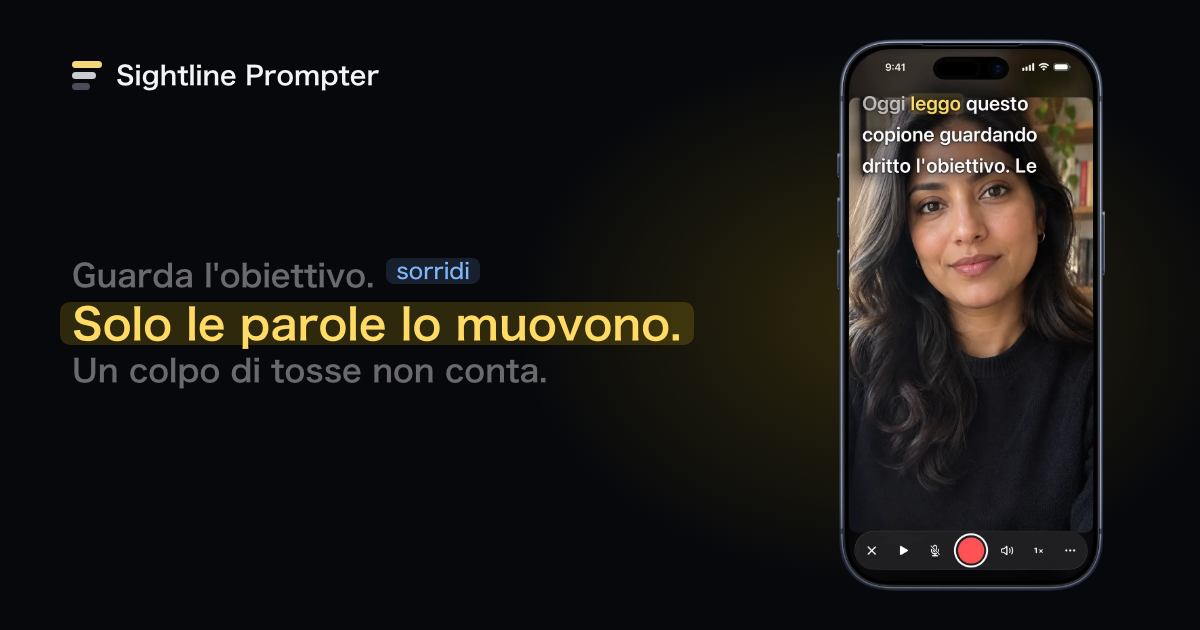
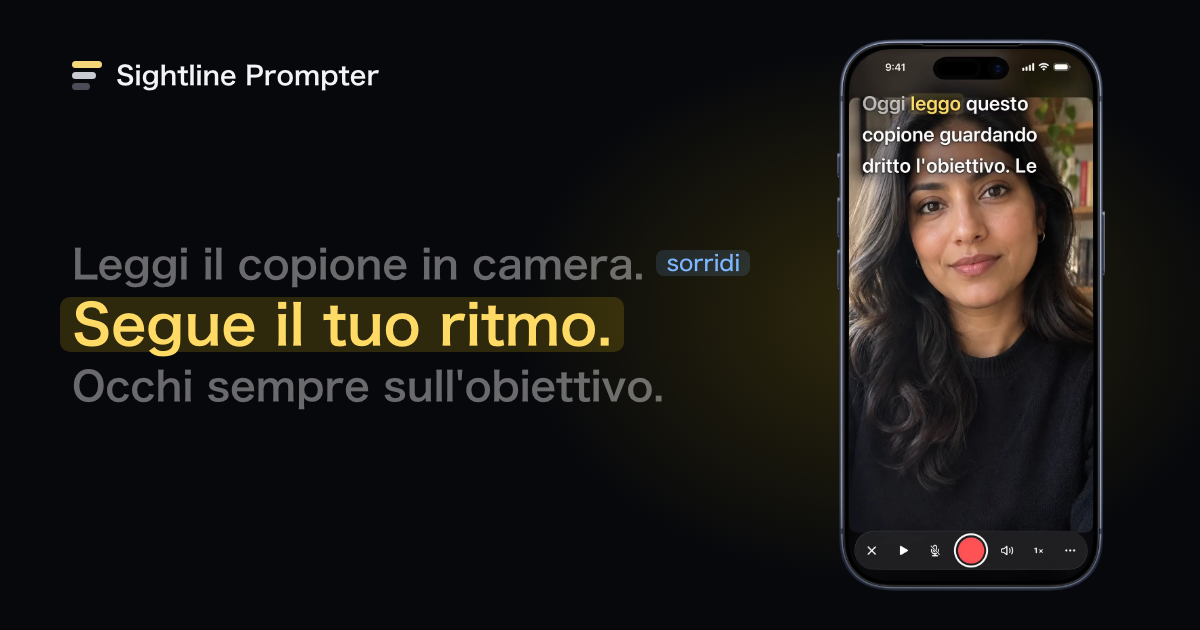
Hero: say what it is and lead with speaking at your own pace

Changed region(s): [[0.0308, 0.3921, 0.6475, 0.6635]]

diff --git a/docs/ja/index.html b/docs/ja/index.html
@@ -26,7 +26,7 @@
 <meta property="og:title" content="Sightline Prompter:声を聞いてくれるテレプロンプター">
 <meta property="og:description" content="iPhoneとMacで使える、声に合わせて進むテレプロンプターアプリ。話すと進み、間を取ると待ちます。咳をしても飛びません。無料で試せます。">
 <meta property="og:url" content="https://sightlineprompter.app/ja/">
-<meta property="og:image" content="https://sightlineprompter.app/assets/og/ja.png?v=399372bf">
+<meta property="og:image" content="https://sightlineprompter.app/assets/og/ja.png?v=78f57185">
 <meta property="og:image:width" content="1200">
 <meta property="og:image:height" content="630">
 <meta property="og:image:type" content="image/png">
@@ -45,7 +45,7 @@
 <meta name="twitter:card" content="summary_large_image">
 <meta name="twitter:title" content="Sightline Prompter:声を聞いてくれるテレプロンプター">
 <meta name="twitter:description" content="iPhoneとMacで使える、声に合わせて進むテレプロンプターアプリ。話すと進み、間を取ると待ちます。咳をしても飛びません。無料で試せます。">
-<meta name="twitter:image" content="https://sightlineprompter.app/assets/og/ja.png?v=399372bf">
+<meta name="twitter:image" content="https://sightlineprompter.app/assets/og/ja.png?v=78f57185">
 <meta name="twitter:image:alt" content="iPhoneとMacに表示されたSightline Prompter。カメラのすぐ下に原稿の文字があります">
 <link rel="icon" href="/favicon.ico" sizes="any">
 <link rel="apple-touch-icon" href="/apple-touch-icon.png">
@@ -101,12 +101,12 @@
 <section class="hero">
   <div class="wrap hero-grid">
     <div class="hero-copy">
-      <h1 class="reading" style="--w:13.0">
-        <span class="ln dim">レンズを見て。 <span class="cue" aria-hidden="true">笑顔</span></span>
-        <span class="ln" data-read>あなたの言葉だけで進む。</span>
-        <span class="ln dim">咳では飛びません。</span>
+      <h1 class="reading" style="--w:11.9">
+        <span class="ln dim">カメラの前で原稿を読む。 <span class="cue" aria-hidden="true">笑顔</span></span>
+        <span class="ln" data-read>あなたのペースで進む。</span>
+        <span class="ln dim">視線はレンズから離れない。</span>
       </h1>
-      <p class="sub">Sightline Prompterは、iPhoneとMacで使えるテレプロンプターアプリです。画面にある言葉だけを照合して声に合わせて進むので、咳やアドリブ、読み飛ばしでも原稿が飛びません。文字はカメラのすぐ下に表示されます。無料で試せます。</p>
+      <p class="sub">iPhoneとMacで使えるテレプロンプターです。声に合わせて一語ずつ進みます。速くても遅くても、途中で止まっても、原稿がついてくるので、見るのはメモではなく視聴者です。</p>
       <div class="actions">
         <a class="store lg" href="https://apps.apple.com/app/id6833947315?ct=site-hero"><img src="https://toolbox.marketingtools.apple.com/api/v2/badges/download-on-the-app-store/black/ja-jp" alt="App Storeからダウンロード" width="168" height="56"></a>
         <a class="link" href="#devices">しくみを見る</a>

diff --git a/docs/fr/index.html b/docs/fr/index.html
@@ -26,7 +26,7 @@
 <meta property="og:title" content="Sightline Prompter : le téléprompteur qui vous entend">
 <meta property="og:description" content="Une application de téléprompteur pour iPhone et Mac qui suit votre voix. Le texte avance quand vous parlez et attend quand vous faites une pause ou toussez. Essai gratuit.">
 <meta property="og:url" content="https://sightlineprompter.app/fr/">
-<meta property="og:image" content="https://sightlineprompter.app/assets/og/fr.png?v=d6f83c09">
+<meta property="og:image" content="https://sightlineprompter.app/assets/og/fr.png?v=1398ee3c">
 <meta property="og:image:width" content="1200">
 <meta property="og:image:height" content="630">
 <meta property="og:image:type" content="image/png">
@@ -45,7 +45,7 @@
 <meta name="twitter:card" content="summary_large_image">
 <meta name="twitter:title" content="Sightline Prompter : le téléprompteur qui vous entend">
 <meta name="twitter:description" content="Une application de téléprompteur pour iPhone et Mac qui suit votre voix. Le texte avance quand vous parlez et attend quand vous faites une pause ou toussez. Essai gratuit.">
-<meta name="twitter:image" content="https://sightlineprompter.app/assets/og/fr.png?v=d6f83c09">
+<meta name="twitter:image" content="https://sightlineprompter.app/assets/og/fr.png?v=1398ee3c">
 <meta name="twitter:image:alt" content="Sightline Prompter sur iPhone et Mac, avec le texte juste sous la caméra">
 <link rel="icon" href="/favicon.ico" sizes="any">
 <link rel="apple-touch-icon" href="/apple-touch-icon.png">
@@ -101,12 +101,12 @@
 <section class="hero">
   <div class="wrap hero-grid">
     <div class="hero-copy">
-      <h1 class="reading" style="--w:14.6">
-        <span class="ln dim">Regardez l&#x27;objectif. <span class="cue" aria-hidden="true">sourire</span></span>
-        <span class="ln" data-read>Seuls vos mots le guident.</span>
-        <span class="ln dim">Une toux ne change rien.</span>
+      <h1 class="reading" style="--w:14.2">
+        <span class="ln dim">Lisez votre texte face caméra. <span class="cue" aria-hidden="true">sourire</span></span>
+        <span class="ln" data-read>Il suit votre rythme.</span>
+        <span class="ln dim">Vos yeux restent sur l&#x27;objectif.</span>
       </h1>
-      <p class="sub">Sightline Prompter est une application de téléprompteur pour iPhone et Mac. Elle suit votre voix en ne comparant que les mots affichés à l&#x27;écran : une toux, une improvisation ou une ligne sautée ne la font pas décrocher. Le texte reste juste sous la caméra. Essai gratuit.</p>
+      <p class="sub">Un téléprompteur pour iPhone et Mac qui suit votre voix mot à mot. Parlez vite ou lentement, faites des pauses quand vous voulez : le texte suit, et vous regardez votre public, pas vos notes.</p>
       <div class="actions">
         <a class="store lg" href="https://apps.apple.com/app/id6833947315?ct=site-hero"><img src="https://toolbox.marketingtools.apple.com/api/v2/badges/download-on-the-app-store/black/fr-fr" alt="Télécharger dans l&#x27;App Store" width="168" height="56"></a>
         <a class="link" href="#devices">Voir comment ça marche</a>

diff --git a/docs/de/index.html b/docs/de/index.html
@@ -26,7 +26,7 @@
 <meta property="og:title" content="Sightline Prompter: der Teleprompter, der dir zuhört">
 <meta property="og:description" content="Eine Teleprompter-App für iPhone und Mac, die deiner Stimme folgt. Der Text läuft, wenn du sprichst, und wartet, wenn du pausierst oder hustest. Kostenlos testen.">
 <meta property="og:url" content="https://sightlineprompter.app/de/">
-<meta property="og:image" content="https://sightlineprompter.app/assets/og/de.png?v=80e2c7ca">
+<meta property="og:image" content="https://sightlineprompter.app/assets/og/de.png?v=d75588f2">
 <meta property="og:image:width" content="1200">
 <meta property="og:image:height" content="630">
 <meta property="og:image:type" content="image/png">
@@ -45,7 +45,7 @@
 <meta name="twitter:card" content="summary_large_image">
 <meta name="twitter:title" content="Sightline Prompter: der Teleprompter, der dir zuhört">
 <meta name="twitter:description" content="Eine Teleprompter-App für iPhone und Mac, die deiner Stimme folgt. Der Text läuft, wenn du sprichst, und wartet, wenn du pausierst oder hustest. Kostenlos testen.">
-<meta name="twitter:image" content="https://sightlineprompter.app/assets/og/de.png?v=80e2c7ca">
+<meta name="twitter:image" content="https://sightlineprompter.app/assets/og/de.png?v=d75588f2">
 <meta name="twitter:image:alt" content="Sightline Prompter auf iPhone und Mac, der Skripttext direkt unter der Kamera">
 <link rel="icon" href="/favicon.ico" sizes="any">
 <link rel="apple-touch-icon" href="/apple-touch-icon.png">
@@ -101,12 +101,12 @@
 <section class="hero">
   <div class="wrap hero-grid">
     <div class="hero-copy">
-      <h1 class="reading" style="--w:15.1">
-        <span class="ln dim">Schau in die Linse. <span class="cue" aria-hidden="true">lächeln</span></span>
-        <span class="ln" data-read>Nur deine Worte bewegen es.</span>
-        <span class="ln dim">Ein Husten stört es nicht.</span>
+      <h1 class="reading" style="--w:15.0">
+        <span class="ln dim">Lies deinen Text vor der Kamera. <span class="cue" aria-hidden="true">lächeln</span></span>
+        <span class="ln" data-read>Er folgt deinem Tempo.</span>
+        <span class="ln dim">Dein Blick bleibt im Objektiv.</span>
       </h1>
-      <p class="sub">Sightline Prompter ist eine Teleprompter-App für iPhone und Mac. Sie folgt deiner Stimme und gleicht nur die Wörter auf dem Bildschirm ab, daher bringen ein Husten, eine spontane Einlage oder eine übersprungene Zeile sie nicht durcheinander. Der Text bleibt direkt unter der Kamera. Kostenlos testen.</p>
+      <p class="sub">Ein Teleprompter für iPhone und Mac, der deiner Stimme Wort für Wort folgt. Sprich schnell oder langsam, mach Pausen, wann du willst. Der Text hält Schritt, und du schaust ins Publikum statt auf Notizen.</p>
       <div class="actions">
         <a class="store lg" href="https://apps.apple.com/app/id6833947315?ct=site-hero"><img src="https://toolbox.marketingtools.apple.com/api/v2/badges/download-on-the-app-store/black/de-de" alt="Laden im App Store" width="168" height="56"></a>
         <a class="link" href="#devices">So funktioniert&#x27;s</a>

diff --git a/docs/pt-br/index.html b/docs/pt-br/index.html
@@ -26,7 +26,7 @@
 <meta property="og:title" content="Sightline Prompter: o teleprompter que ouve você">
 <meta property="og:description" content="Um app de teleprompter para iPhone e Mac que acompanha sua voz. O texto avança quando você fala e espera quando você pausa ou tosse. Experimente grátis.">
 <meta property="og:url" content="https://sightlineprompter.app/pt-br/">
-<meta property="og:image" content="https://sightlineprompter.app/assets/og/pt-br.png?v=3e630354">
+<meta property="og:image" content="https://sightlineprompter.app/assets/og/pt-br.png?v=13dd6a25">
 <meta property="og:image:width" content="1200">
 <meta property="og:image:height" content="630">
 <meta property="og:image:type" content="image/png">
@@ -45,7 +45,7 @@
 <meta name="twitter:card" content="summary_large_image">
 <meta name="twitter:title" content="Sightline Prompter: o teleprompter que ouve você">
 <meta name="twitter:description" content="Um app de teleprompter para iPhone e Mac que acompanha sua voz. O texto avança quando você fala e espera quando você pausa ou tosse. Experimente grátis.">
-<meta name="twitter:image" content="https://sightlineprompter.app/assets/og/pt-br.png?v=3e630354">
+<meta name="twitter:image" content="https://sightlineprompter.app/assets/og/pt-br.png?v=13dd6a25">
 <meta name="twitter:image:alt" content="Sightline Prompter no iPhone e no Mac, com o texto logo abaixo da câmera">
 <link rel="icon" href="/favicon.ico" sizes="any">
 <link rel="apple-touch-icon" href="/apple-touch-icon.png">
@@ -101,12 +101,12 @@
 <section class="hero">
   <div class="wrap hero-grid">
     <div class="hero-copy">
-      <h1 class="reading" style="--w:15.7">
-        <span class="ln dim">Olhe para a câmera. <span class="cue" aria-hidden="true">sorria</span></span>
-        <span class="ln" data-read>Só as suas palavras o movem.</span>
-        <span class="ln dim">Uma tosse não o faz pular.</span>
+      <h1 class="reading" style="--w:14.9">
+        <span class="ln dim">Leia seu texto olhando a câmera. <span class="cue" aria-hidden="true">sorria</span></span>
+        <span class="ln" data-read>Ele segue o seu ritmo.</span>
+        <span class="ln dim">Seus olhos ficam na lente.</span>
       </h1>
-      <p class="sub">O Sightline Prompter é um app de teleprompter para iPhone e Mac. Ele acompanha sua voz comparando só as palavras que estão na tela, então uma tosse, um improviso ou uma linha pulada não o confundem. O texto fica logo abaixo da câmera. Experimente grátis.</p>
+      <p class="sub">Um teleprompter para iPhone e Mac que acompanha sua voz palavra por palavra. Fale rápido ou devagar, faça pausas quando quiser. O texto vai junto, e você olha para o público, não para as anotações.</p>
       <div class="actions">
         <a class="store lg" href="https://apps.apple.com/app/id6833947315?ct=site-hero"><img src="https://toolbox.marketingtools.apple.com/api/v2/badges/download-on-the-app-store/black/pt-br" alt="Baixar na App Store" width="168" height="56"></a>
         <a class="link" href="#devices">Veja como funciona</a>

diff --git a/docs/it/index.html b/docs/it/index.html
@@ -26,7 +26,7 @@
 <meta property="og:title" content="Sightline Prompter: il teleprompter che ti ascolta">
 <meta property="og:description" content="Un&#x27;app teleprompter per iPhone e Mac che segue la tua voce. Il testo avanza quando parli e aspetta quando fai una pausa o tossisci. Provala gratis.">
 <meta property="og:url" content="https://sightlineprompter.app/it/">
-<meta property="og:image" content="https://sightlineprompter.app/assets/og/it.png?v=624c0350">
+<meta property="og:image" content="https://sightlineprompter.app/assets/og/it.png?v=00576224">
 <meta property="og:image:width" content="1200">
 <meta property="og:image:height" content="630">
 <meta property="og:image:type" content="image/png">
@@ -45,7 +45,7 @@
 <meta name="twitter:card" content="summary_large_image">
 <meta name="twitter:title" content="Sightline Prompter: il teleprompter che ti ascolta">
 <meta name="twitter:description" content="Un&#x27;app teleprompter per iPhone e Mac che segue la tua voce. Il testo avanza quando parli e aspetta quando fai una pausa o tossisci. Provala gratis.">
-<meta name="twitter:image" content="https://sightlineprompter.app/assets/og/it.png?v=624c0350">
+<meta name="twitter:image" content="https://sightlineprompter.app/assets/og/it.png?v=00576224">
 <meta name="twitter:image:alt" content="Sightline Prompter su iPhone e Mac, con il testo appena sotto l&#x27;obiettivo">
 <link rel="icon" href="/favicon.ico" sizes="any">
 <link rel="apple-touch-icon" href="/apple-touch-icon.png">
@@ -101,12 +101,12 @@
 <section class="hero">
   <div class="wrap hero-grid">
     <div class="hero-copy">
-      <h1 class="reading" style="--w:14.6">
-        <span class="ln dim">Guarda l&#x27;obiettivo. <span class="cue" aria-hidden="true">sorridi</span></span>
-        <span class="ln" data-read>Solo le parole lo muovono.</span>
-        <span class="ln dim">Un colpo di tosse non conta.</span>
+      <h1 class="reading" style="--w:13.0">
+        <span class="ln dim">Leggi il copione in camera. <span class="cue" aria-hidden="true">sorridi</span></span>
+        <span class="ln" data-read>Segue il tuo ritmo.</span>
+        <span class="ln dim">Occhi sempre sull&#x27;obiettivo.</span>
       </h1>
-      <p class="sub">Sightline Prompter è un&#x27;app teleprompter per iPhone e Mac. Segue la tua voce confrontando solo le parole sullo schermo, quindi un colpo di tosse, un&#x27;improvvisazione o una riga saltata non la mandano fuori strada. Il testo resta proprio sotto la fotocamera. Provala gratis.</p>
+      <p class="sub">Un teleprompter per iPhone e Mac che segue la tua voce parola per parola. Parla veloce o piano, fai pause quando vuoi. Il testo ti tiene il passo e tu guardi il pubblico, non gli appunti.</p>
       <div class="actions">
         <a class="store lg" href="https://apps.apple.com/app/id6833947315?ct=site-hero"><img src="https://toolbox.marketingtools.apple.com/api/v2/badges/download-on-the-app-store/black/it-it" alt="Scarica su App Store" width="168" height="56"></a>
         <a class="link" href="#devices">Guarda come funziona</a>

diff --git a/docs/tr/index.html b/docs/tr/index.html
@@ -26,7 +26,7 @@
 <meta property="og:title" content="Sightline Prompter: seni dinleyen teleprompter">
 <meta property="og:description" content="iPhone ve Mac için sesini takip eden bir teleprompter uygulaması. Konuştukça metin ilerler, duraksayınca ya da öksürünce bekler. Ücretsiz dene.">
 <meta property="og:url" content="https://sightlineprompter.app/tr/">
-<meta property="og:image" content="https://sightlineprompter.app/assets/og/tr.png?v=11f13630">
+<meta property="og:image" content="https://sightlineprompter.app/assets/og/tr.png?v=3889fb19">
 <meta property="og:image:width" content="1200">
 <meta property="og:image:height" content="630">
 <meta property="og:image:type" content="image/png">
@@ -45,7 +45,7 @@
 <meta name="twitter:card" content="summary_large_image">
 <meta name="twitter:title" content="Sightline Prompter: seni dinleyen teleprompter">
 <meta name="twitter:description" content="iPhone ve Mac için sesini takip eden bir teleprompter uygulaması. Konuştukça metin ilerler, duraksayınca ya da öksürünce bekler. Ücretsiz dene.">
-<meta name="twitter:image" content="https://sightlineprompter.app/assets/og/tr.png?v=11f13630">
+<meta name="twitter:image" content="https://sightlineprompter.app/assets/og/tr.png?v=3889fb19">
 <meta name="twitter:image:alt" content="iPhone ve Mac&#x27;te Sightline Prompter, metin kameranın hemen altında">
 <link rel="icon" href="/favicon.ico" sizes="any">
 <link rel="apple-touch-icon" href="/apple-touch-icon.png">
@@ -101,12 +101,12 @@
 <section class="hero">
   <div class="wrap hero-grid">
     <div class="hero-copy">
-      <h1 class="reading" style="--w:14.6">
-        <span class="ln dim">Objektife bak. <span class="cue" aria-hidden="true">gülümse</span></span>
-        <span class="ln" data-read>Metin yalnız sözünle akar.</span>
-        <span class="ln dim">Öksürsen yerinden oynamaz.</span>
+      <h1 class="reading" style="--w:13.0">
+        <span class="ln dim">Metni kameraya bakarak oku. <span class="cue" aria-hidden="true">gülümse</span></span>
+        <span class="ln" data-read>Senin hızını izler.</span>
+        <span class="ln dim">Gözün objektiften ayrılmaz.</span>
       </h1>
-      <p class="sub">Sightline Prompter, iPhone ve Mac için bir teleprompter uygulaması. Sesini yalnızca ekrandaki kelimelerle eşleştirerek takip eder, bu yüzden öksürük, doğaçlama bir cümle ya da atladığın satır onu şaşırtmaz. Metin tam kameranın altında durur. Ücretsiz dene.</p>
+      <p class="sub">iPhone ve Mac için, sesini kelime kelime takip eden bir teleprompter. İster hızlı konuş ister yavaş, istediğin an dur. Metin seninle gelir, sen de notlara değil izleyicine bakarsın.</p>
       <div class="actions">
         <a class="store lg" href="https://apps.apple.com/app/id6833947315?ct=site-hero"><img src="https://toolbox.marketingtools.apple.com/api/v2/badges/download-on-the-app-store/black/tr-tr" alt="App Store&#x27;dan İndirin" width="168" height="56"></a>
         <a class="link" href="#devices">Nasıl çalıştığını gör</a>

diff --git a/docs/ko/index.html b/docs/ko/index.html
@@ -26,7 +26,7 @@
 <meta property="og:title" content="Sightline Prompter: 말을 듣는 프롬프터">
 <meta property="og:description" content="iPhone과 Mac용 프롬프터 앱이에요. 말하면 원고가 움직이고, 멈추거나 기침하면 기다려요. 무료로 체험해 보세요.">
 <meta property="og:url" content="https://sightlineprompter.app/ko/">
-<meta property="og:image" content="https://sightlineprompter.app/assets/og/ko.png?v=083091b8">
+<meta property="og:image" content="https://sightlineprompter.app/assets/og/ko.png?v=afbf8090">
 <meta property="og:image:width" content="1200">
 <meta property="og:image:height" content="630">
 <meta property="og:image:type" content="image/png">
@@ -45,7 +45,7 @@
 <meta name="twitter:card" content="summary_large_image">
 <meta name="twitter:title" content="Sightline Prompter: 말을 듣는 프롬프터">
 <meta name="twitter:description" content="iPhone과 Mac용 프롬프터 앱이에요. 말하면 원고가 움직이고, 멈추거나 기침하면 기다려요. 무료로 체험해 보세요.">
-<meta name="twitter:image" content="https://sightlineprompter.app/assets/og/ko.png?v=083091b8">
+<meta name="twitter:image" content="https://sightlineprompter.app/assets/og/ko.png?v=afbf8090">
 <meta name="twitter:image:alt" content="iPhone과 Mac에 표시된 Sightline Prompter, 카메라 바로 아래에 원고 텍스트가 보이는 화면">
 <link rel="icon" href="/favicon.ico" sizes="any">
 <link rel="apple-touch-icon" href="/apple-touch-icon.png">
@@ -102,11 +102,11 @@
   <div class="wrap hero-grid">
     <div class="hero-copy">
       <h1 class="reading" style="--w:10.3">
-        <span class="ln dim">렌즈를 보세요. <span class="cue" aria-hidden="true">미소</span></span>
-        <span class="ln" data-read>내 말에만 움직여요.</span>
-        <span class="ln dim">기침에는 꿈쩍 안 해요.</span>
+        <span class="ln dim">카메라 앞에서 읽어요. <span class="cue" aria-hidden="true">미소</span></span>
+        <span class="ln" data-read>내 속도를 따라가요.</span>
+        <span class="ln dim">시선은 렌즈에 머물러요.</span>
       </h1>
-      <p class="sub">Sightline Prompter는 iPhone과 Mac용 프롬프터 앱이에요. 화면에 있는 단어만 맞춰 보며 목소리를 따라가요. 그래서 기침이나 애드리브, 건너뛴 줄에도 원고가 튀지 않아요. 글자는 카메라 바로 아래에 있어요. 무료로 체험해 보세요.</p>
+      <p class="sub">iPhone과 Mac용 텔레프롬프터예요. 목소리를 한 단어씩 따라가요. 빠르게 읽든 천천히 읽든, 멈춰도 괜찮아요. 원고가 맞춰 오니까 메모 말고 시청자를 보세요.</p>
       <div class="actions">
         <a class="store lg" href="https://apps.apple.com/app/id6833947315?ct=site-hero"><img src="https://toolbox.marketingtools.apple.com/api/v2/badges/download-on-the-app-store/black/ko-kr" alt="App Store에서 다운로드" width="168" height="56"></a>
         <a class="link" href="#devices">작동 방식 보기</a>

diff --git a/docs/es/index.html b/docs/es/index.html
@@ -26,7 +26,7 @@
 <meta property="og:title" content="Sightline Prompter: el teleprompter que te escucha">
 <meta property="og:description" content="Una app de teleprompter para iPhone y Mac que sigue tu voz. El texto avanza cuando hablas y espera cuando haces una pausa o toses. Pruébalo gratis.">
 <meta property="og:url" content="https://sightlineprompter.app/es/">
-<meta property="og:image" content="https://sightlineprompter.app/assets/og/es.png?v=43827f03">
+<meta property="og:image" content="https://sightlineprompter.app/assets/og/es.png?v=7a01a98b">
 <meta property="og:image:width" content="1200">
 <meta property="og:image:height" content="630">
 <meta property="og:image:type" content="image/png">
@@ -45,7 +45,7 @@
 <meta name="twitter:card" content="summary_large_image">
 <meta name="twitter:title" content="Sightline Prompter: el teleprompter que te escucha">
 <meta name="twitter:description" content="Una app de teleprompter para iPhone y Mac que sigue tu voz. El texto avanza cuando hablas y espera cuando haces una pausa o toses. Pruébalo gratis.">
-<meta name="twitter:image" content="https://sightlineprompter.app/assets/og/es.png?v=43827f03">
+<meta name="twitter:image" content="https://sightlineprompter.app/assets/og/es.png?v=7a01a98b">
 <meta name="twitter:image:alt" content="Sightline Prompter en iPhone y Mac, con el texto del guion justo debajo de la cámara">
 <link rel="icon" href="/favicon.ico" sizes="any">
 <link rel="apple-touch-icon" href="/apple-touch-icon.png">
@@ -101,12 +101,12 @@
 <section class="hero">
   <div class="wrap hero-grid">
     <div class="hero-copy">
-      <h1 class="reading" style="--w:15.7">
-        <span class="ln dim">Mira a la cámara. <span class="cue" aria-hidden="true">sonríe</span></span>
-        <span class="ln" data-read>Solo tus palabras lo mueven.</span>
-        <span class="ln dim">Una tos no lo hace saltar.</span>
+      <h1 class="reading" style="--w:13.3">
+        <span class="ln dim">Lee tu guion ante la cámara. <span class="cue" aria-hidden="true">sonríe</span></span>
+        <span class="ln" data-read>Va a tu ritmo.</span>
+        <span class="ln dim">Tus ojos no dejan el objetivo.</span>
       </h1>
-      <p class="sub">Sightline Prompter es una app de teleprompter para iPhone y Mac. Sigue tu voz comparando solo las palabras que hay en pantalla, así que una tos, una improvisación o una línea que te saltas no la descolocan. El texto se queda justo debajo de la cámara. Pruébala gratis.</p>
+      <p class="sub">Un teleprompter para iPhone y Mac que sigue tu voz palabra por palabra. Habla rápido o despacio, haz pausas cuando quieras. El guion te sigue y tú miras al público, no a tus notas.</p>
       <div class="actions">
         <a class="store lg" href="https://apps.apple.com/app/id6833947315?ct=site-hero"><img src="https://toolbox.marketingtools.apple.com/api/v2/badges/download-on-the-app-store/black/es-es" alt="Descárgalo en el App Store" width="168" height="56"></a>
         <a class="link" href="#devices">Mira cómo funciona</a>

diff --git a/docs/index.html b/docs/index.html
@@ -26,7 +26,7 @@
 <meta property="og:title" content="Sightline Prompter: the teleprompter that hears you">
 <meta property="og:description" content="A voice-following teleprompter app for iPhone and Mac. The text moves when you read your script and waits when you pause or cough. Free to try.">
 <meta property="og:url" content="https://sightlineprompter.app/">
-<meta property="og:image" content="https://sightlineprompter.app/assets/og/en.png?v=fced8b1d">
+<meta property="og:image" content="https://sightlineprompter.app/assets/og/en.png?v=1b6c4940">
 <meta property="og:image:width" content="1200">
 <meta property="og:image:height" content="630">
 <meta property="og:image:type" content="image/png">
@@ -45,7 +45,7 @@
 <meta name="twitter:card" content="summary_large_image">
 <meta name="twitter:title" content="Sightline Prompter: the teleprompter that hears you">
 <meta name="twitter:description" content="A voice-following teleprompter app for iPhone and Mac. The text moves when you read your script and waits when you pause or cough. Free to try.">
-<meta name="twitter:image" content="https://sightlineprompter.app/assets/og/en.png?v=fced8b1d">
+<meta name="twitter:image" content="https://sightlineprompter.app/assets/og/en.png?v=1b6c4940">
 <meta name="twitter:image:alt" content="Sightline Prompter on iPhone and Mac, with the script text just below the camera">
 <link rel="icon" href="/favicon.ico" sizes="any">
 <link rel="apple-touch-icon" href="/apple-touch-icon.png">
@@ -101,12 +101,12 @@
 <section class="hero">
   <div class="wrap hero-grid">
     <div class="hero-copy">
-      <h1 class="reading" style="--w:13.4">
-        <span class="ln dim">Look at the lens. <span class="cue" aria-hidden="true">smile</span></span>
-        <span class="ln" data-read>Only your words move it.</span>
-        <span class="ln dim">A cough won&#x27;t make it jump.</span>
+      <h1 class="reading" style="--w:12.7">
+        <span class="ln dim">Read your script on camera. <span class="cue" aria-hidden="true">smile</span></span>
+        <span class="ln" data-read>It follows your pace.</span>
+        <span class="ln dim">Your eyes never leave the lens.</span>
       </h1>
-      <p class="sub">Sightline Prompter is a teleprompter app for iPhone and Mac. It follows your voice by matching only the words on screen, so a cough, an ad-lib or a skipped line does not throw it. The text stays right under the camera. Free to try.</p>
+      <p class="sub">A teleprompter for iPhone and Mac that follows your voice word by word. Speak fast, slow, or pause: the script keeps up, so you face your audience, not your notes.</p>
       <div class="actions">
         <a class="store lg" href="https://apps.apple.com/app/id6833947315?ct=site-hero"><img src="https://toolbox.marketingtools.apple.com/api/v2/badges/download-on-the-app-store/black/en-us" alt="Download on the App Store" width="168" height="56"></a>
         <a class="link" href="#devices">See how it works</a>

diff --git a/docs/zh-hans/index.html b/docs/zh-hans/index.html
@@ -26,7 +26,7 @@
 <meta property="og:title" content="Sightline Prompter：会听你说话的提词器">
 <meta property="og:description" content="适用于 iPhone 和 Mac 的提词器 App。你说话，稿件就往下走，你停顿或咳嗽，它就等着。免费试用。">
 <meta property="og:url" content="https://sightlineprompter.app/zh-hans/">
-<meta property="og:image" content="https://sightlineprompter.app/assets/og/zh-hans.png?v=7f94a4f4">
+<meta property="og:image" content="https://sightlineprompter.app/assets/og/zh-hans.png?v=cc9f03cd">
 <meta property="og:image:width" content="1200">
 <meta property="og:image:height" content="630">
 <meta property="og:image:type" content="image/png">
@@ -45,7 +45,7 @@
 <meta name="twitter:card" content="summary_large_image">
 <meta name="twitter:title" content="Sightline Prompter：会听你说话的提词器">
 <meta name="twitter:description" content="适用于 iPhone 和 Mac 的提词器 App。你说话，稿件就往下走，你停顿或咳嗽，它就等着。免费试用。">
-<meta name="twitter:image" content="https://sightlineprompter.app/assets/og/zh-hans.png?v=7f94a4f4">
+<meta name="twitter:image" content="https://sightlineprompter.app/assets/og/zh-hans.png?v=cc9f03cd">
 <meta name="twitter:image:alt" content="Sightline Prompter 在 iPhone 和 Mac 上运行，稿子文字就在摄像头正下方">
 <link rel="icon" href="/favicon.ico" sizes="any">
 <link rel="apple-touch-icon" href="/apple-touch-icon.png">
@@ -101,12 +101,12 @@
 <section class="hero">
   <div class="wrap hero-grid">
     <div class="hero-copy">
-      <h1 class="reading" style="--w:10.8">
-        <span class="ln dim">看着镜头。 <span class="cue" aria-hidden="true">微笑</span></span>
-        <span class="ln" data-read>只有你的话能推动它。</span>
-        <span class="ln dim">咳嗽不会让它跳行。</span>
+      <h1 class="reading" style="--w:9.7">
+        <span class="ln dim">对着镜头念稿。 <span class="cue" aria-hidden="true">微笑</span></span>
+        <span class="ln" data-read>它跟着你的节奏走。</span>
+        <span class="ln dim">视线不用离开镜头。</span>
       </h1>
-      <p class="sub">Sightline Prompter 是适用于 iPhone 和 Mac 的提词器 App。它只匹配屏幕上有的词来跟读你的声音，所以咳嗽、即兴发挥或跳过一行都不会让它乱跳。文字就在摄像头正下方。免费试用。</p>
+      <p class="sub">iPhone 和 Mac 上的提词器，逐字跟随你的声音。说得快慢都行，想停就停，稿子始终跟得上，你看着观众，而不是笔记。</p>
       <div class="actions">
         <a class="store lg" href="https://apps.apple.com/app/id6833947315?ct=site-hero"><img src="https://toolbox.marketingtools.apple.com/api/v2/badges/download-on-the-app-store/black/zh-cn" alt="在 App Store 下载" width="168" height="56"></a>
         <a class="link" href="#devices">看看怎么用</a>

diff --git a/docs/zh-hant/index.html b/docs/zh-hant/index.html
@@ -26,7 +26,7 @@
 <meta property="og:title" content="Sightline Prompter：會聽你說話的提詞機">
 <meta property="og:description" content="適用於 iPhone 與 Mac 的提詞機 App。你說話，稿件就往下走，你停頓或咳嗽，它就等著。免費試用。">
 <meta property="og:url" content="https://sightlineprompter.app/zh-hant/">
-<meta property="og:image" content="https://sightlineprompter.app/assets/og/zh-hant.png?v=0b3073fb">
+<meta property="og:image" content="https://sightlineprompter.app/assets/og/zh-hant.png?v=e1a39c9c">
 <meta property="og:image:width" content="1200">
 <meta property="og:image:height" content="630">
 <meta property="og:image:type" content="image/png">
@@ -45,7 +45,7 @@
 <meta name="twitter:card" content="summary_large_image">
 <meta name="twitter:title" content="Sightline Prompter：會聽你說話的提詞機">
 <meta name="twitter:description" content="適用於 iPhone 與 Mac 的提詞機 App。你說話，稿件就往下走，你停頓或咳嗽，它就等著。免費試用。">
-<meta name="twitter:image" content="https://sightlineprompter.app/assets/og/zh-hant.png?v=0b3073fb">
+<meta name="twitter:image" content="https://sightlineprompter.app/assets/og/zh-hant.png?v=e1a39c9c">
 <meta name="twitter:image:alt" content="Sightline Prompter 在 iPhone 和 Mac 上執行，稿子文字就在鏡頭正下方">
 <link rel="icon" href="/favicon.ico" sizes="any">
 <link rel="apple-touch-icon" href="/apple-touch-icon.png">
@@ -101,12 +101,12 @@
 <section class="hero">
   <div class="wrap hero-grid">
     <div class="hero-copy">
-      <h1 class="reading" style="--w:10.8">
-        <span class="ln dim">看著鏡頭。 <span class="cue" aria-hidden="true">微笑</span></span>
-        <span class="ln" data-read>只有你的話能推動它。</span>
-        <span class="ln dim">咳嗽不會讓它跳行。</span>
+      <h1 class="reading" style="--w:9.7">
+        <span class="ln dim">對著鏡頭念稿。 <span class="cue" aria-hidden="true">微笑</span></span>
+        <span class="ln" data-read>它跟著你的節奏走。</span>
+        <span class="ln dim">視線不必離開鏡頭。</span>
       </h1>
-      <p class="sub">Sightline Prompter 是適用於 iPhone 與 Mac 的提詞機 App。它只比對螢幕上有的字詞來跟著你的聲音走，所以咳嗽、即興發揮或跳過一行都不會讓它亂跳。文字就在鏡頭正下方。免費試用。</p>
+      <p class="sub">iPhone 與 Mac 的提詞機，逐字跟著你的聲音。語速快慢隨你，想停就停，稿子都跟得上，你看著觀眾，而不是筆記。</p>
       <div class="actions">
         <a class="store lg" href="https://apps.apple.com/app/id6833947315?ct=site-hero"><img src="https://toolbox.marketingtools.apple.com/api/v2/badges/download-on-the-app-store/black/zh-tw" alt="在 App Store 下載" width="168" height="56"></a>
         <a class="link" href="#devices">看看怎麼運作</a>
